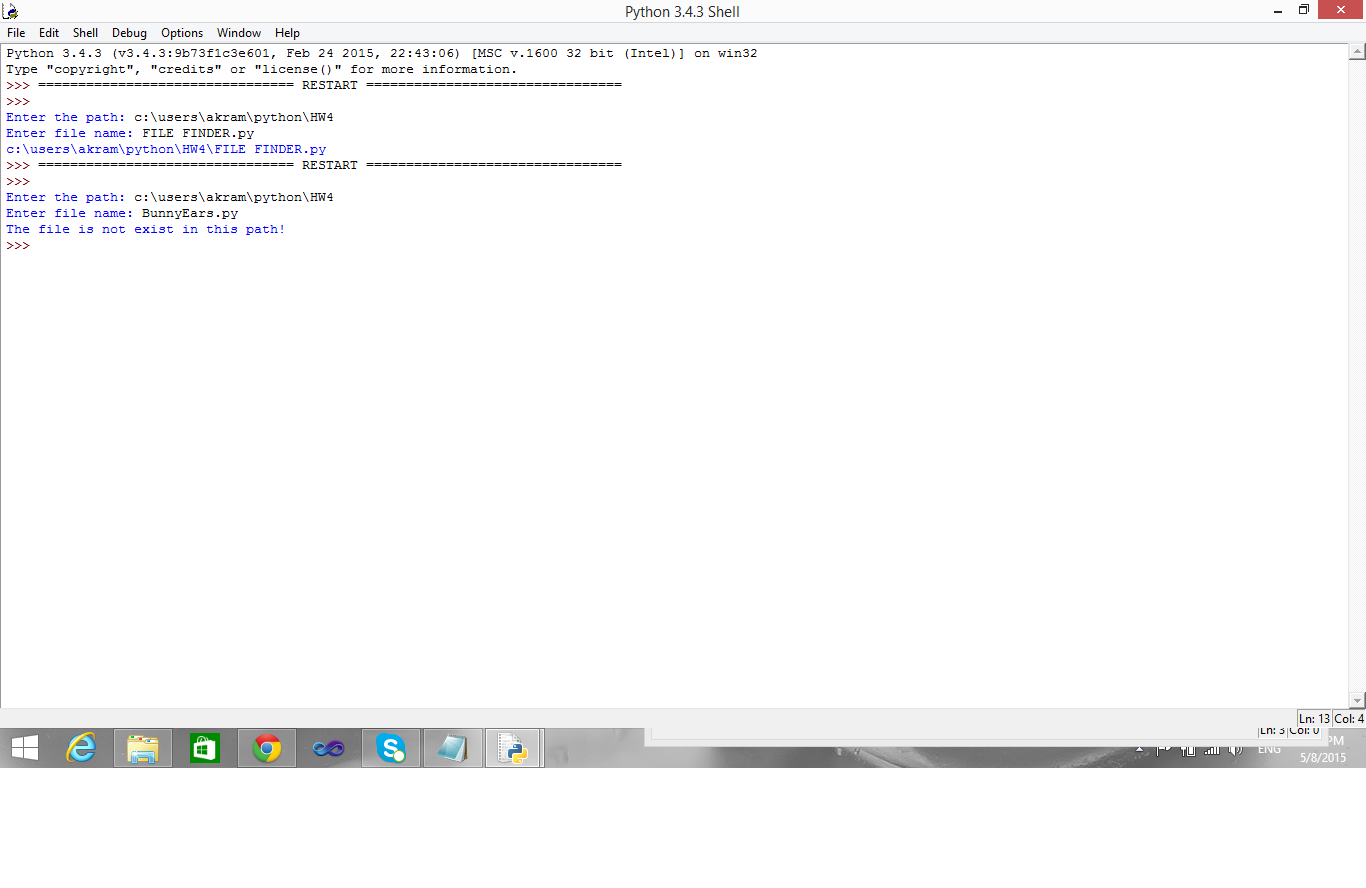
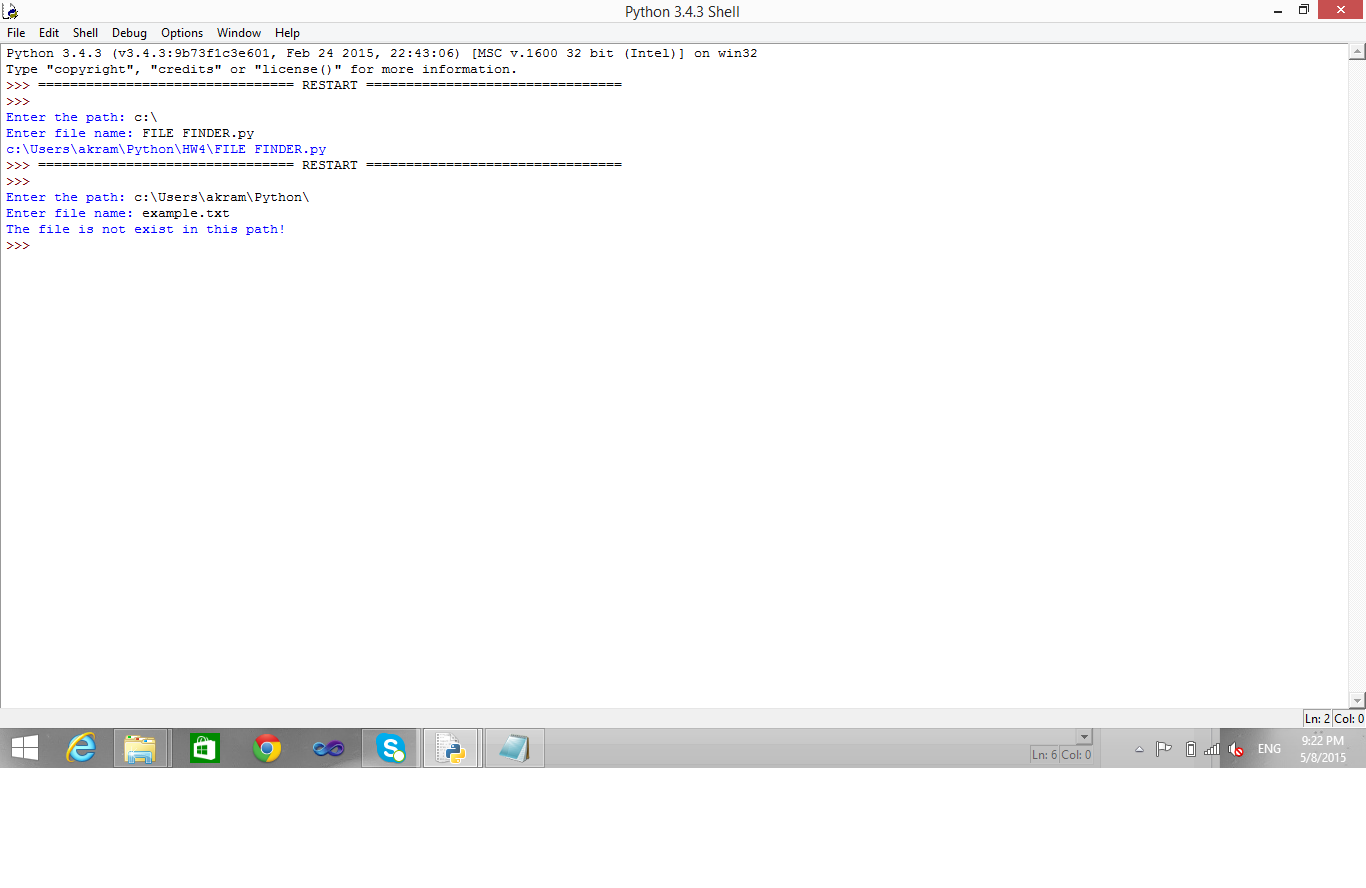
submit homework4

diff --git a/HW4/FILE FINDER.py b/HW4/FILE FINDER.py
@@ -3,17 +3,14 @@
 
 import os
 import fnmatch
-
-def check (start_dir,file_name): 
-    for dirpath, dirs, files in os.walk(start_dir): # walk in path 
-        for single_file in files:
-            if fnmatch.fnmatch(single_file, file_name):
-                return True                         # return true to the function if file in the path
-            
+found = True
 start_dir = input ("Enter the path: ")
 file_name = input ("Enter file name: ")
-if check (start_dir,file_name):
-    print (os.path.join(start_dir, file_name))      # join file to the path
-else:
+for dirpath, dirs, files in os.walk(start_dir): # walk in path 
+    for single_file in files:
+        if fnmatch.fnmatch(single_file, file_name):     # check if the file is match
+            print (os.path.join(dirpath, file_name))    # print the joining of directory path and the file
+            found = False
+if found:
     print ("The file is not exist in this path!")
         
